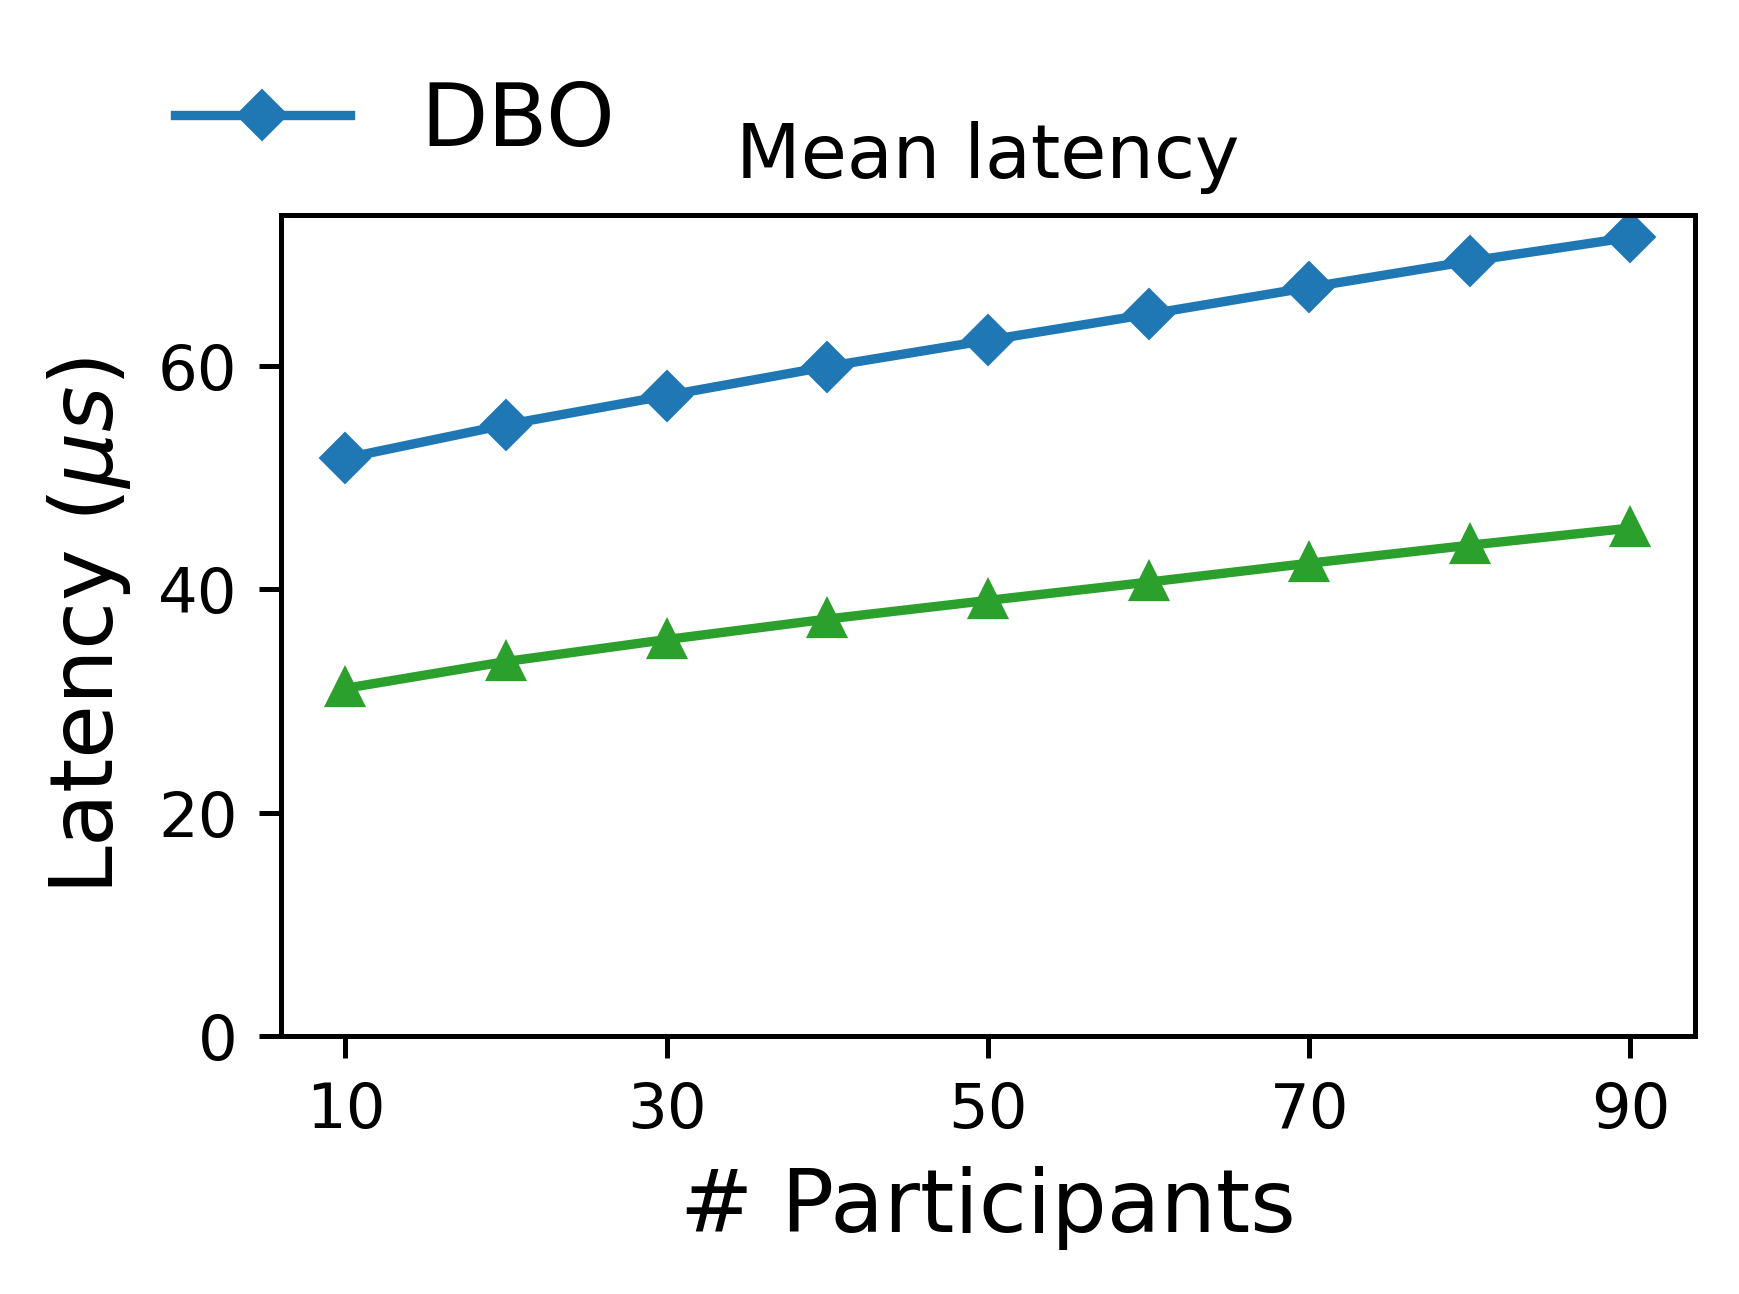
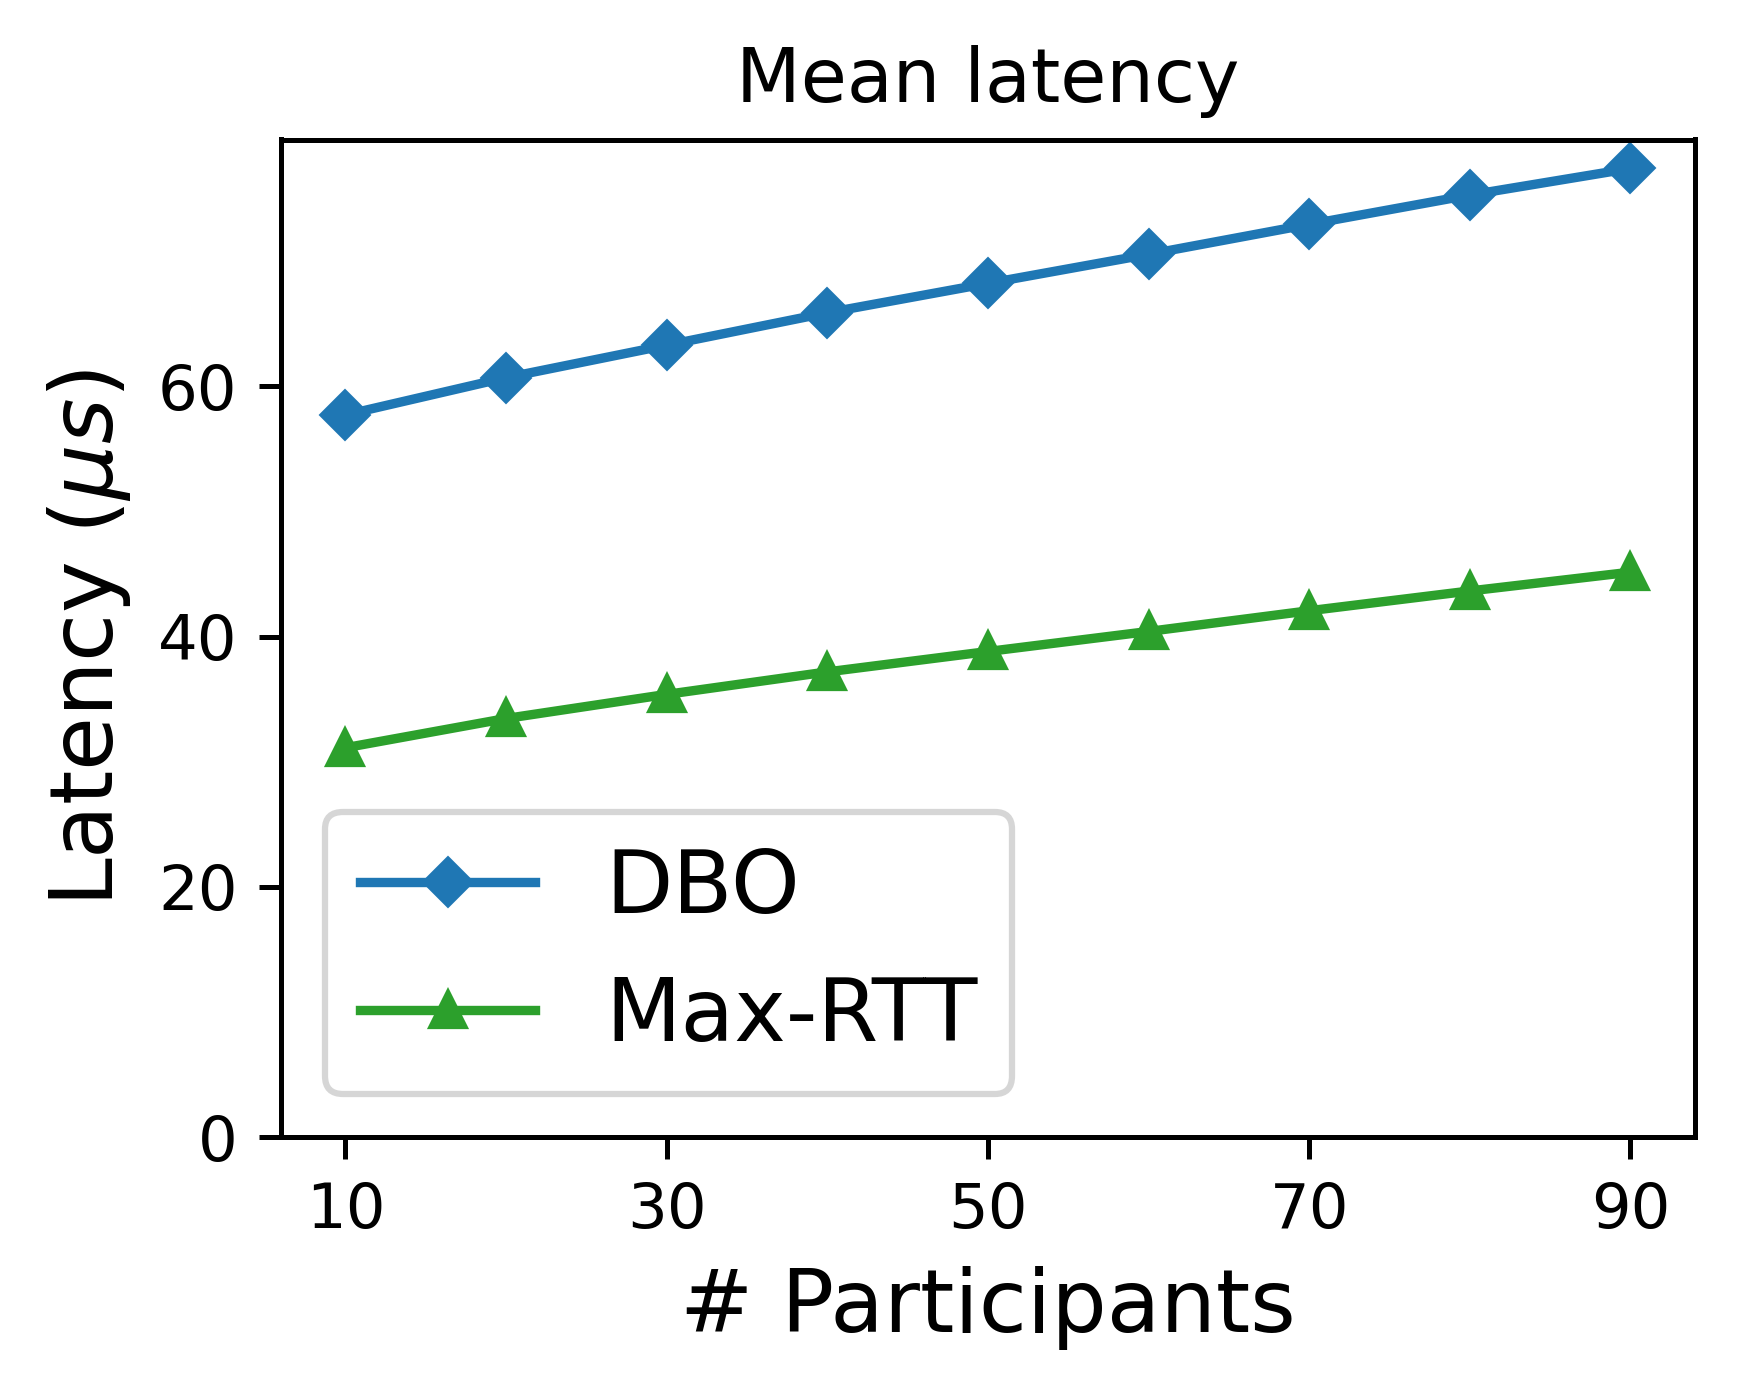
Update Readme, figures and add comments

diff --git a/plot_figures.py b/plot_figures.py
@@ -4,7 +4,6 @@ matplotlib.rcParams['pdf.fonttype'] = 42
 matplotlib.rcParams['ps.fonttype'] = 42
 
 participants = list(range(10, 100, 10))
-fairness_dbo = [1]
 
 f = open("traces/simulation.dat", "r")
 
@@ -25,17 +24,18 @@ for line in f:
 		latency[d_type][n_participants] = []
 		tail_latency[d_type][n_participants] = []
 	fairness[d_type][n_participants].append(float(l[2]))
-	latency[d_type][n_participants].append(float(l[3]))
-	tail_latency[d_type][n_participants].append(float(l[4]))
+	latency[d_type][n_participants].append(float(l[4]))
+	tail_latency[d_type][n_participants].append(float(l[5]))
 
 plt.figure(figsize=(4,3))
 plt.plot(participants, [latency["DBO"][x] for x in participants],color='C0', label="DBO", marker='D', markersize=5)
-plt.plot(participants, [latency["MaxRTT"][x] for x in participants] ,color='C2', marker='^', markersize=5)
+plt.plot(participants, [latency["MaxRTT"][x] for x in participants] ,color='C2', label="Max-RTT", marker='^', markersize=5)
 plt.ylim(bottom=0)
 plt.xticks(range(10,100,20))
 plt.xlabel("# Participants", fontsize =14)
 plt.ylabel(r"Latency $(\mu s)$", fontsize=14)
-plt.legend(bbox_to_anchor=(-0.1, 1.02, 1.1, 1.02), loc=4, ncol=1, mode="expand", borderaxespad=0., prop={'size': 14}, frameon=False)
+plt.legend(prop={'size': 14})
+# plt.legend(bbox_to_anchor=(-0.1, 1.02, 1.1, 1.02), loc=4, ncol=2, mode="expand", borderaxespad=0., prop={'size': 14}, frameon=False)
 plt.tight_layout()
 plt.title("Mean latency")
 # plt.savefig("figures/avg_latency.pdf", bbox_inches='tight', dpi=450)
@@ -43,9 +43,10 @@ plt.savefig("figures/avg_latency_scaling.png", bbox_inches='tight', dpi=450)
 
 
 plt.figure(figsize=(4,3))
-plt.plot(participants, [tail_latency["DBO"][x] for x in participants], color='C0', marker='D', markersize=5)
+plt.plot(participants, [tail_latency["DBO"][x] for x in participants], color='C0', marker='D', markersize=5, label="DBO")
 plt.plot(participants, [tail_latency["MaxRTT"][x] for x in participants], color='C2', marker='^', label="Max-RTT", markersize=5)
-plt.legend(bbox_to_anchor=(-0.1, 1.02, 1.1, 1.02), loc=3, ncol=1, mode="expand", borderaxespad=0., prop={'size': 14}, frameon=False)
+# plt.legend(bbox_to_anchor=(-0.1, 1.02, 1.1, 1.02), loc=3, ncol=2, mode="expand", borderaxespad=0., prop={'size': 14}, frameon=False)
+plt.legend(prop={'size': 14})
 plt.ylim(bottom=0)
 plt.xticks(range(10,100,20))
 plt.xlabel("# Participants", fontsize =14)
@@ -65,8 +66,8 @@ en_idx = 30
 
 plt.plot(latency["Cloudex"][10][st_idx:en_idx], fairness["Cloudex"][10][st_idx:en_idx], label="CloudEx, 10 MPs", marker='o', linestyle='--', linewidth=2, markersize=6, zorder=1)
 plt.plot(latency["Cloudex"][60][st_idx:en_idx], fairness["Cloudex"][60][st_idx:en_idx], label="CloudEx, 60 MPs", marker='o', linestyle='--', linewidth=2, markersize=6, zorder=1)
-plt.scatter(latency["DBO"][10], [1], label="DBO, 10 MPs", marker='d', s=100, c="red", zorder=2)
-plt.scatter(latency["DBO"][60], [1], label="DBO, 60 MPs", marker='d', s=100, c="green", zorder=2)
+plt.scatter(latency["DBO"][10], fairness["DBO"][10], label="DBO, 10 MPs", marker='d', s=100, c="red", zorder=2)
+plt.scatter(latency["DBO"][60], fairness["DBO"][60], label="DBO, 60 MPs", marker='d', s=100, c="green", zorder=2)
 plt.legend(prop={'size': 14})
 plt.xlim(left=0)
 plt.tight_layout()
@@ -80,8 +81,8 @@ plt.ylabel("Fairness", fontsize =14)
 plt.xlabel(r"Tail Latency p99 $(\mu s)$", fontsize =14)
 plt.plot(tail_latency["Cloudex"][10][st_idx:en_idx], fairness["Cloudex"][10][st_idx:en_idx], label="CloudEx, 10 MPs", marker='o', linestyle='--', linewidth=2, markersize=6, zorder=1)
 plt.plot(tail_latency["Cloudex"][60][st_idx:en_idx], fairness["Cloudex"][60][st_idx:en_idx], label="CloudEx, 60 MPs", marker='o', linestyle='--', linewidth=2, markersize=6, zorder=1)
-plt.scatter(tail_latency["DBO"][10], [1], label="DBO, 10 MPs", marker='d', s=100, c="red", zorder=2)
-plt.scatter(tail_latency["DBO"][60], [1], label="DBO, 60 MPs", marker='d', s=100, c="green", zorder=2)
+plt.scatter(tail_latency["DBO"][10], fairness["DBO"][10], label="DBO, 10 MPs", marker='d', s=100, c="red", zorder=2)
+plt.scatter(tail_latency["DBO"][60], fairness["DBO"][60], label="DBO, 60 MPs", marker='d', s=100, c="green", zorder=2)
 plt.xlim(left=0)
 plt.legend(prop={'size': 14})
 plt.tight_layout()

diff --git a/algorithms/max_rtt.py b/algorithms/max_rtt.py
@@ -3,8 +3,8 @@ from .dbo import DBO
 class MaxRTT(DBO):
 	"""
 	MaxRTT calculates the bounds on end-to-end latency to achieve Response Time Fairness.
-	To minimize delay, there is no buffering at the RBs. MaxRTT assumes knowledge or trigger
-	points and that heartbeats at each time step are being sent from all RBs to the CES.
+	To minimize delay, there is no buffering at the RBs. MaxRTT assumes knowledge of trigger
+	points of the trades.
 	"""
 	def __init__(self):
 		super().__init__()
@@ -21,8 +21,8 @@ class MaxRTT(DBO):
 
 		For MaxRTT, the trade is ordered based on the response time, which can be calculated using the
 		delivery time (`d_time`) and the submission time (`submission_time`). The ordering here for a
-		trade in response to the data point `x` is defined as (x*time_range + t). This enforces the
-		lexicographic sorting for the tuple (x,t).
+		trade in response to the data point `x` with response time `rt` is defined as (x*time_range + rt).
+		This enforces the lexicographic sorting for the tuple (x, rt).
 
 		Overriding the method from the super class (Algorithm).
 
@@ -36,10 +36,11 @@ class MaxRTT(DBO):
 		"""
 		answer = []
 		for x in range(len(submission_time)):
-			answer.append(x * time_range + submission_time[x]-d_time[x])
+			rt = submission_time[x]-d_time[x]
+			answer.append(x * time_range + rt)
 		return answer
 
-	def get_execution_time(self, ordering, d_time_arr, time_range, rv_owd):
+	def get_execution_time(self, ordering, d_time_arr, time_range, ack_time_arr):
 		"""
 		Get the execution time of trades from a single MP.
 
@@ -53,8 +54,9 @@ class MaxRTT(DBO):
 
 		Args:
 			ordering (list(float)): A total ordering of trades.
-			ack_time_arr (list(float)): Real times when acks are received from all MPs.
+			d_time_arr (list(list(float))): Real times when RB sends data points to all MPs.
 			time_range (float): The time horizon being simulated.
+			ack_time_arr (list(list(float))): Real times when acks are received from all MPs.
 
 		Returns:
 			list(float): Real times of execution of trades from a single MP at the CES.
@@ -65,7 +67,10 @@ class MaxRTT(DBO):
 			rt = ordering[i]-i*time_range
 			max_s  = -1
 			for j in range(len(d_time_arr)):
-				max_s = max(max_s, d_time_arr[j][x]+rt+rv_owd[int(d_time_arr[j][x]+rt)])
+				d_time_ind = x
+				while d_time_arr[j][d_time_ind] < d_time_arr[j][x]+rt and d_time_ind < len(d_time_arr[j]) - 1:
+					d_time_ind += 1
+				max_s = max(max_s, ack_time_arr[j][d_time_ind])
 			answer.append(max_s)
 		return answer
 
@@ -88,7 +93,7 @@ class MaxRTT(DBO):
 
 		for i in range(self.number_participants):
 			# Calculate the execution time of trades from RB`i` at the CES
-			self.execution_time_arr.append(self.get_execution_time(self.ordering_arr[i], self.d_time_arr, self.time_range, self.rv_owd_arr[i]))
+			self.execution_time_arr.append(self.get_execution_time(self.ordering_arr[i], self.d_time_arr, self.time_range, self.ack_time_arr))
 			# Calculate the latency for each trade (ignore last 25/g_step points to ensure it is within `time_range`)
 			self.latency_arr.append(self.get_e2e_latency(
 				self.g_time, self.execution_time_arr[i], self.response_times[i])[:(-int((25.0/self.g_step) + 1))])

diff --git a/run_simulation.py b/run_simulation.py
@@ -1,4 +1,5 @@
 import numpy as np
+import sys
 from matplotlib import pyplot as plt
 import matplotlib
 from util import read_cloud_trace, data_generation, generate_random_trace
@@ -33,16 +34,29 @@ plt.show()
 fig.savefig("figures/network_rtt_trace.png", bbox_inches='tight', dpi=450)
 
 
-RT = 10
+RT = 4
+DELTA = 20
+BATCH_SIZE = 25
 g_step = 1
 time_range = 1000000
 g_time = []
 for i in range(int(time_range/g_step)):
 	g_time.append(i*g_step)
 
-
-dbo_obj = DBO(20, 25, 0)
+dbo_obj = DBO(DELTA, BATCH_SIZE, 0)
 max_rtt_obj = MaxRTT()
+
+def print_stats(sim_obj, output_file_hndlr=sys.stdout, delta=DELTA):
+	print("{algorithm},{num_p},{win_ratio},{lrtf_ratio},{mean_l},{p99_l},{max_l}".format(
+		algorithm=sim_obj.get_title(),
+		num_p=number_participant,
+		win_ratio=sim_obj.get_win_fraction(),
+		lrtf_ratio=sim_obj.get_lrtf_fariness_ratio(delta),
+		mean_l=sim_obj.get_mean_latency(),
+		p99_l=sim_obj.get_99p_latency(),
+		max_l=sim_obj.get_max_latency()),
+		flush=True, file=output_file_hndlr)
+
 
 for number_participant in range(10, 100, 10):
 	fw_owd_arr = []
@@ -57,14 +71,14 @@ for number_participant in range(10, 100, 10):
 	print("Running DBO for %d MPs" % number_participant)
 	dbo_obj.set_simulation_environment(g_time, time_range, number_participant, fw_owd_arr, rv_owd_arr, response_time_arr, g_step)
 	dbo_obj.run_simulation()
-	print("{algorithm},{num_p},{win_ratio},{mean_l},{p99_l},{max_l}".format(
-		algorithm=dbo_obj.get_title(), num_p=number_participant, win_ratio=dbo_obj.get_win_fraction(), mean_l=dbo_obj.get_mean_latency(), p99_l=dbo_obj.get_99p_latency(), max_l=dbo_obj.get_max_latency()), file=output_file)
+	print_stats(dbo_obj)
+	print_stats(dbo_obj, output_file)
 
 	print("Running MaxRTT for %d MPs" % number_participant)
 	max_rtt_obj.set_simulation_environment(g_time, time_range, number_participant, fw_owd_arr, rv_owd_arr, response_time_arr, g_step)
 	max_rtt_obj.run_simulation()
-	print("{algorithm},{num_p},{win_ratio},{mean_l},{p99_l},{max_l}".format(
-		algorithm=max_rtt_obj.get_title(), num_p=number_participant, win_ratio=max_rtt_obj.get_win_fraction(), mean_l=max_rtt_obj.get_mean_latency(), p99_l=max_rtt_obj.get_99p_latency(), max_l=max_rtt_obj.get_max_latency()), file=output_file)
+	print_stats(max_rtt_obj)
+	print_stats(max_rtt_obj, output_file)
 
 for number_participant in [10, 60]:
 	fw_owd_arr = []
@@ -81,5 +95,5 @@ for number_participant in [10, 60]:
 		cloudex_obj = Cloudex(dd, dd)
 		cloudex_obj.set_simulation_environment(g_time, time_range, number_participant, fw_owd_arr, rv_owd_arr, response_time_arr, g_step)
 		cloudex_obj.run_simulation()
-		print("{algorithm},{num_p},{win_ratio},{mean_l},{p99_l},{max_l}".format(
-			algorithm=cloudex_obj.get_title(), num_p=number_participant, win_ratio=cloudex_obj.get_win_fraction(), mean_l=cloudex_obj.get_mean_latency(), p99_l=cloudex_obj.get_99p_latency(), max_l=cloudex_obj.get_max_latency()), file=output_file)
+		print_stats(cloudex_obj)
+		print_stats(cloudex_obj, output_file)

diff --git a/algorithms/algorithm.py b/algorithms/algorithm.py
@@ -215,7 +215,7 @@ class Algorithm():
 		"""
 		Calculate the fairness ratio as ratio of the number of competing trade pairs that were
 		ordered correctly (based on Response time Fairness) to the total number of competing trade
-		sets for all unique pairs of market participants.
+		sets for all unique pairs of market participants. See Definition 1 in the paper.
 
 		Returns:
 			float: Win fraction (fairness) between all participants for all trades.
@@ -232,6 +232,35 @@ class Algorithm():
 				else:
 					win_fraction += self.win_prob_2_before_1(self.ordering_arr[j], self.ordering_arr[i])
 		return win_fraction/total
+
+	def get_lrtf_fariness_ratio(self, delta):
+		"""
+		Calculate the fairness ratio as ratio of the number of competing trade pairs that were
+		ordered correctly (based on Limited Response time Fairness) to the total number of competing trade
+		sets for all unique pairs of market participants. See Definition 2 in the paper.
+
+		Args:
+			delta (float): The delta parameter for LRTF.
+
+		Returns:
+			float: Win fraction (fairness) between all participants for all trades.
+		"""
+		win_fraction = 0
+		total = 0
+		for i in range(self.number_participants):
+			for j in range(self.number_participants):
+				if i>=j:
+					continue
+				## For LRTF, the smaller response time should be less than delta to ensure LRTF fairness.
+				if min(self.response_times[i], self.response_times[j]) >= delta:
+					continue
+				total += 1.0
+				if self.response_times[i] > self.response_times[j]:
+					win_fraction += self.win_prob_2_before_1(self.ordering_arr[i], self.ordering_arr[j])
+				else:
+					win_fraction += self.win_prob_2_before_1(self.ordering_arr[j], self.ordering_arr[i])
+		return win_fraction/total
+
 
 	def get_mean_latency(self):
 		"""

diff --git a/algorithms/dbo.py b/algorithms/dbo.py
@@ -25,8 +25,10 @@ class DBO(Algorithm):
 		bounded delay here as shown in Theorem 4.
 
 		For DBO, the data points received at the RB are buffered and batched based on `batch_size`.
-		The batches are delivered with inter-batch time as >=`delta`. See LRTF and Section 5 in the
-		paper.
+		The complete batches are delivered with inter-batch time as >=`delta`. See LRTF and Section 5
+		in the paper. Note that we assume that the CES knows the batch size and the last data point
+		of the batch. This information is also included when data points are sent to the RB. RB marks
+		a batch as complete when the last data point of the batch is received at the RB.
 
 		Overriding the method from the super class (Algorithm).
 

diff --git a/README.md b/README.md
@@ -39,7 +39,7 @@ python3 run_simulation.py
 This will generate the `traces/simulation.dat` file which is of the format:
 
 ```
-<algorithm title and parameters>,<number of participants>,<fairness ratio>,<mean latency>,<99p latency>,<maximum latency>
+<algorithm title and parameters>,<number of participants>,<fairness ratio>,<LRTF fairness ratio>,<mean latency>,<99p latency>,<maximum latency>
 ```
 
 Example:
@@ -52,6 +52,18 @@ Cloudex(15|15),10,0.9951819555555554,30.181985499269878,31.61907858124118,400.40
 Cloudex(20|20),10,0.9988185999999999,40.12518497419023,40.0,400.4027382090717
 ...
 ```
+
+### Metrics
+
+The main metrics evaluated by us are as follows (described in more detail in the paper, Section 6):
+
+#### Fariness Ratio
+
+We define two different definitions of fairness in our paper, response time fairness and limited response time fairness. Both of these are evaluated and reported by us in the simulation framework. The figures plotted in the next [subsection](#plotting-figures-from-the-paper) show the stronger and general definition: response time fairness. Note that to evaluate the high frequency trading workloads, we evaluate on MPs with response times faster than 20&mu;s. Accordingly, the choice of delta for DBO and LRTF is also 20&mu;s.
+
+#### Latency
+
+The latency of the system is evaluated from point of data generation to the trade execution. To only get the system latency, we deduct the response time taken by the MP to submit a trade after receiving a data point. We call this end-to-end latency (see Section 6.1).
 
 ### Plotting figures from the paper
 
@@ -87,10 +99,13 @@ All times are measured in &mu;s.
 
 Various algorithms for a financial exchange that follow the same architecture as Figure 1 (from the paper) can be implemented by defining the delivery algorithm at the RB and the ordering algorithm at the OB. See how `DBO` is implemented in `algorithms/dbo.py` to extend the `Algorithm` class for more details.
 
+The `Algorithm` class defined in `algorithms/algorithm.py` can also be extended to implement the other schemes described in our earlier workshop paper, **Rethinking cloud-hosted financial exchanges for response time fairness**, published at *HotNets'22*: [https://dl.acm.org/doi/10.1145/3563766.3564098](https://dl.acm.org/doi/10.1145/3563766.3564098).
+
 ## Authors
 
 - Prateesh Goyal
 - Eashan Gupta
+- Ilias Marinos
 
 ## Citation
 
